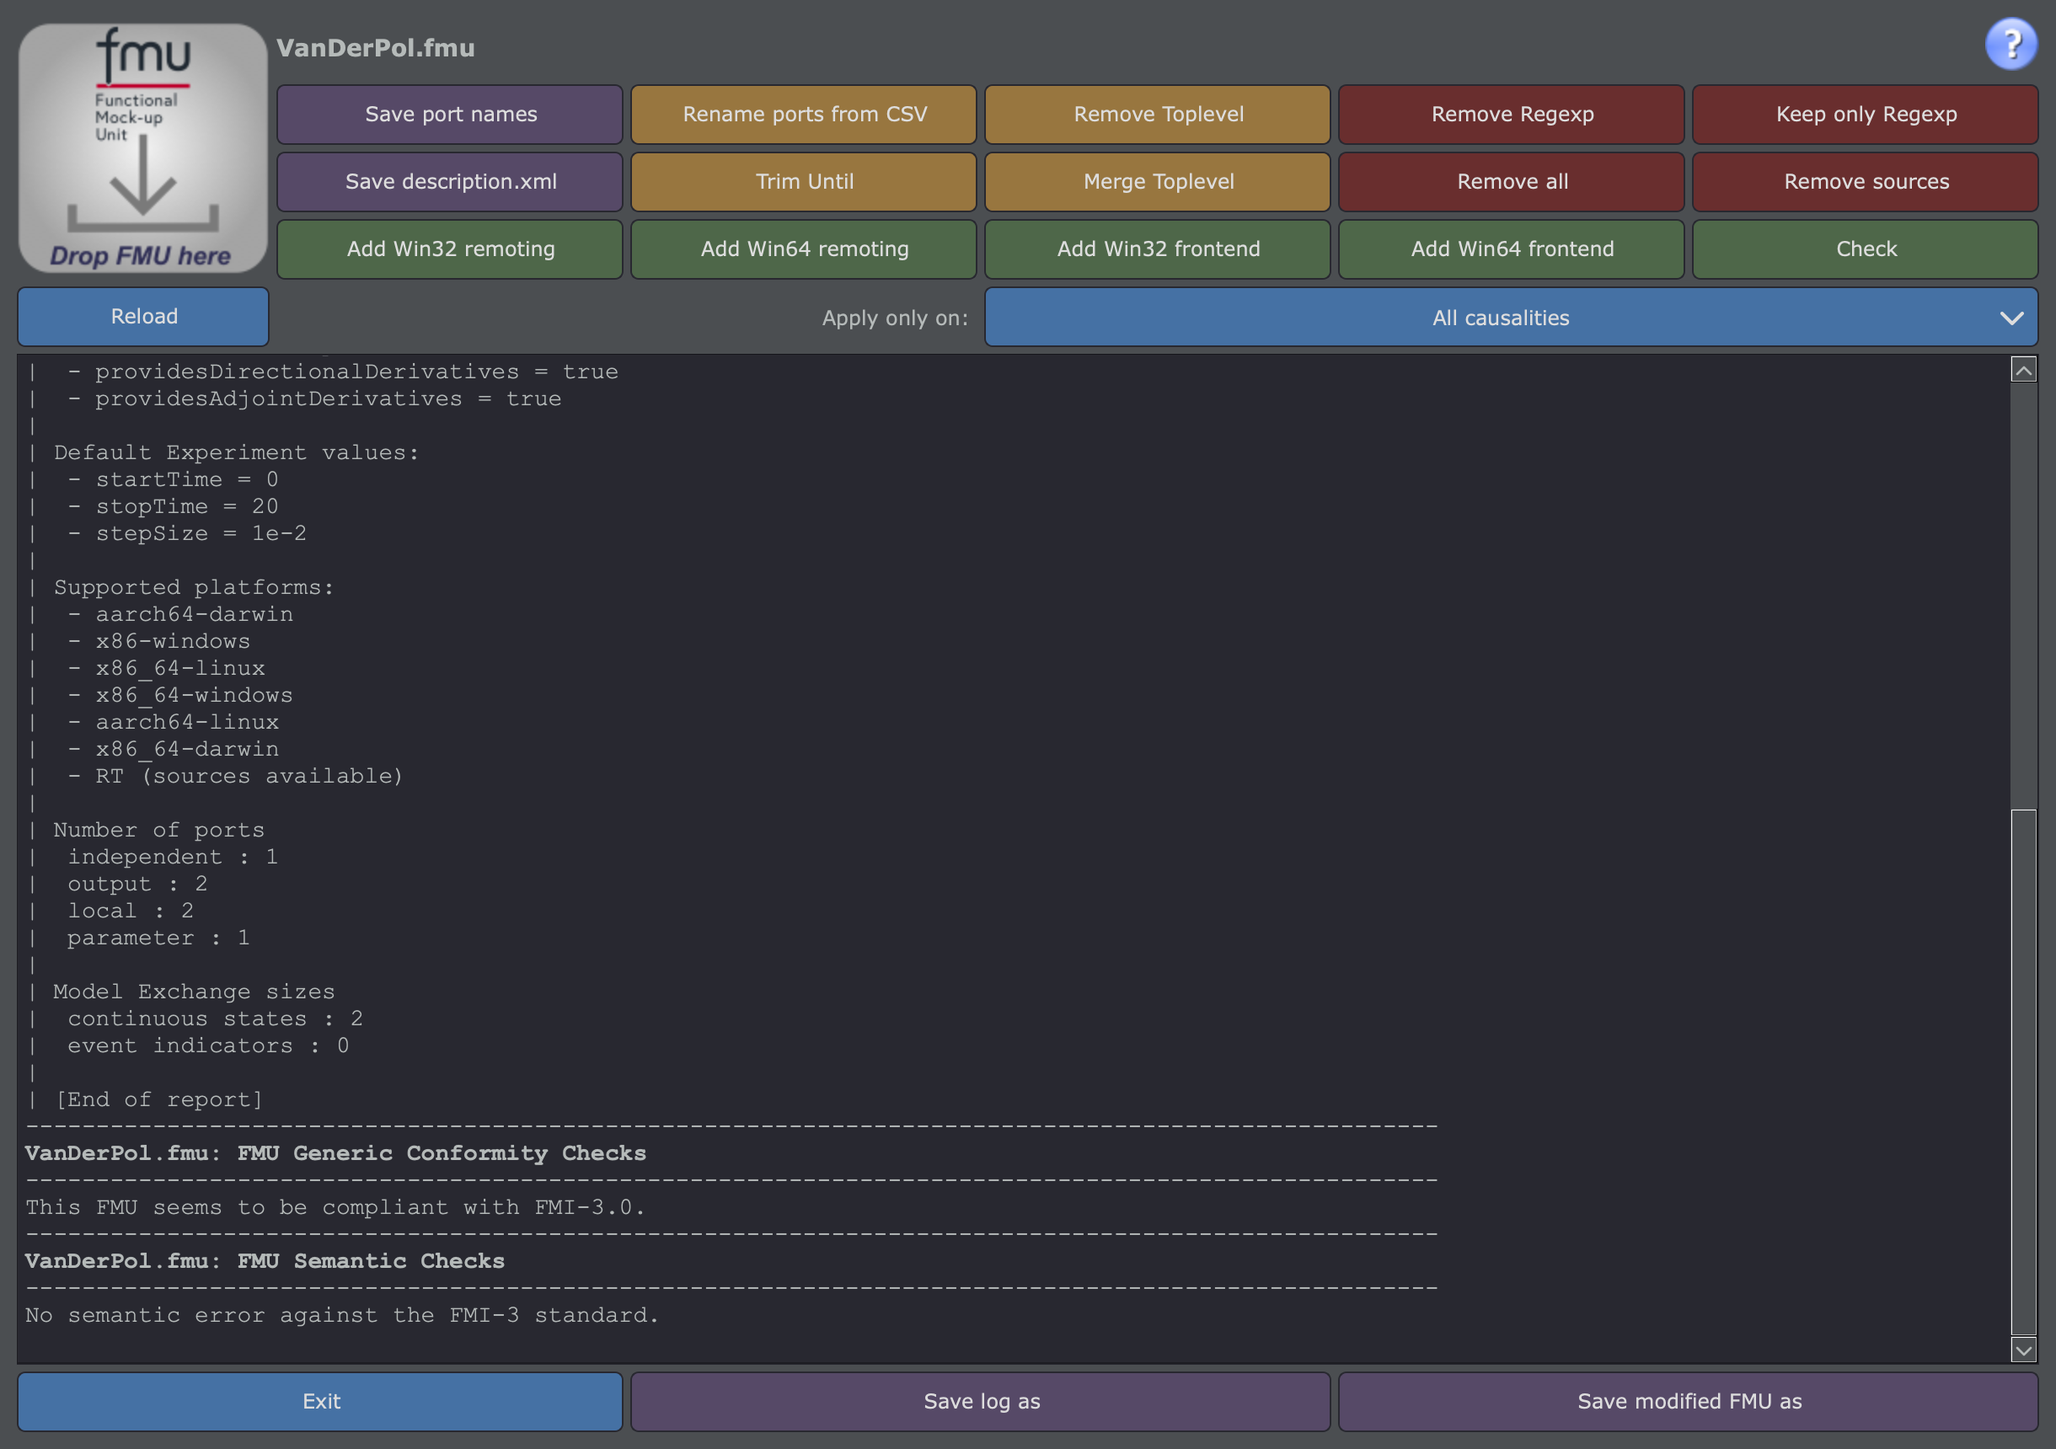
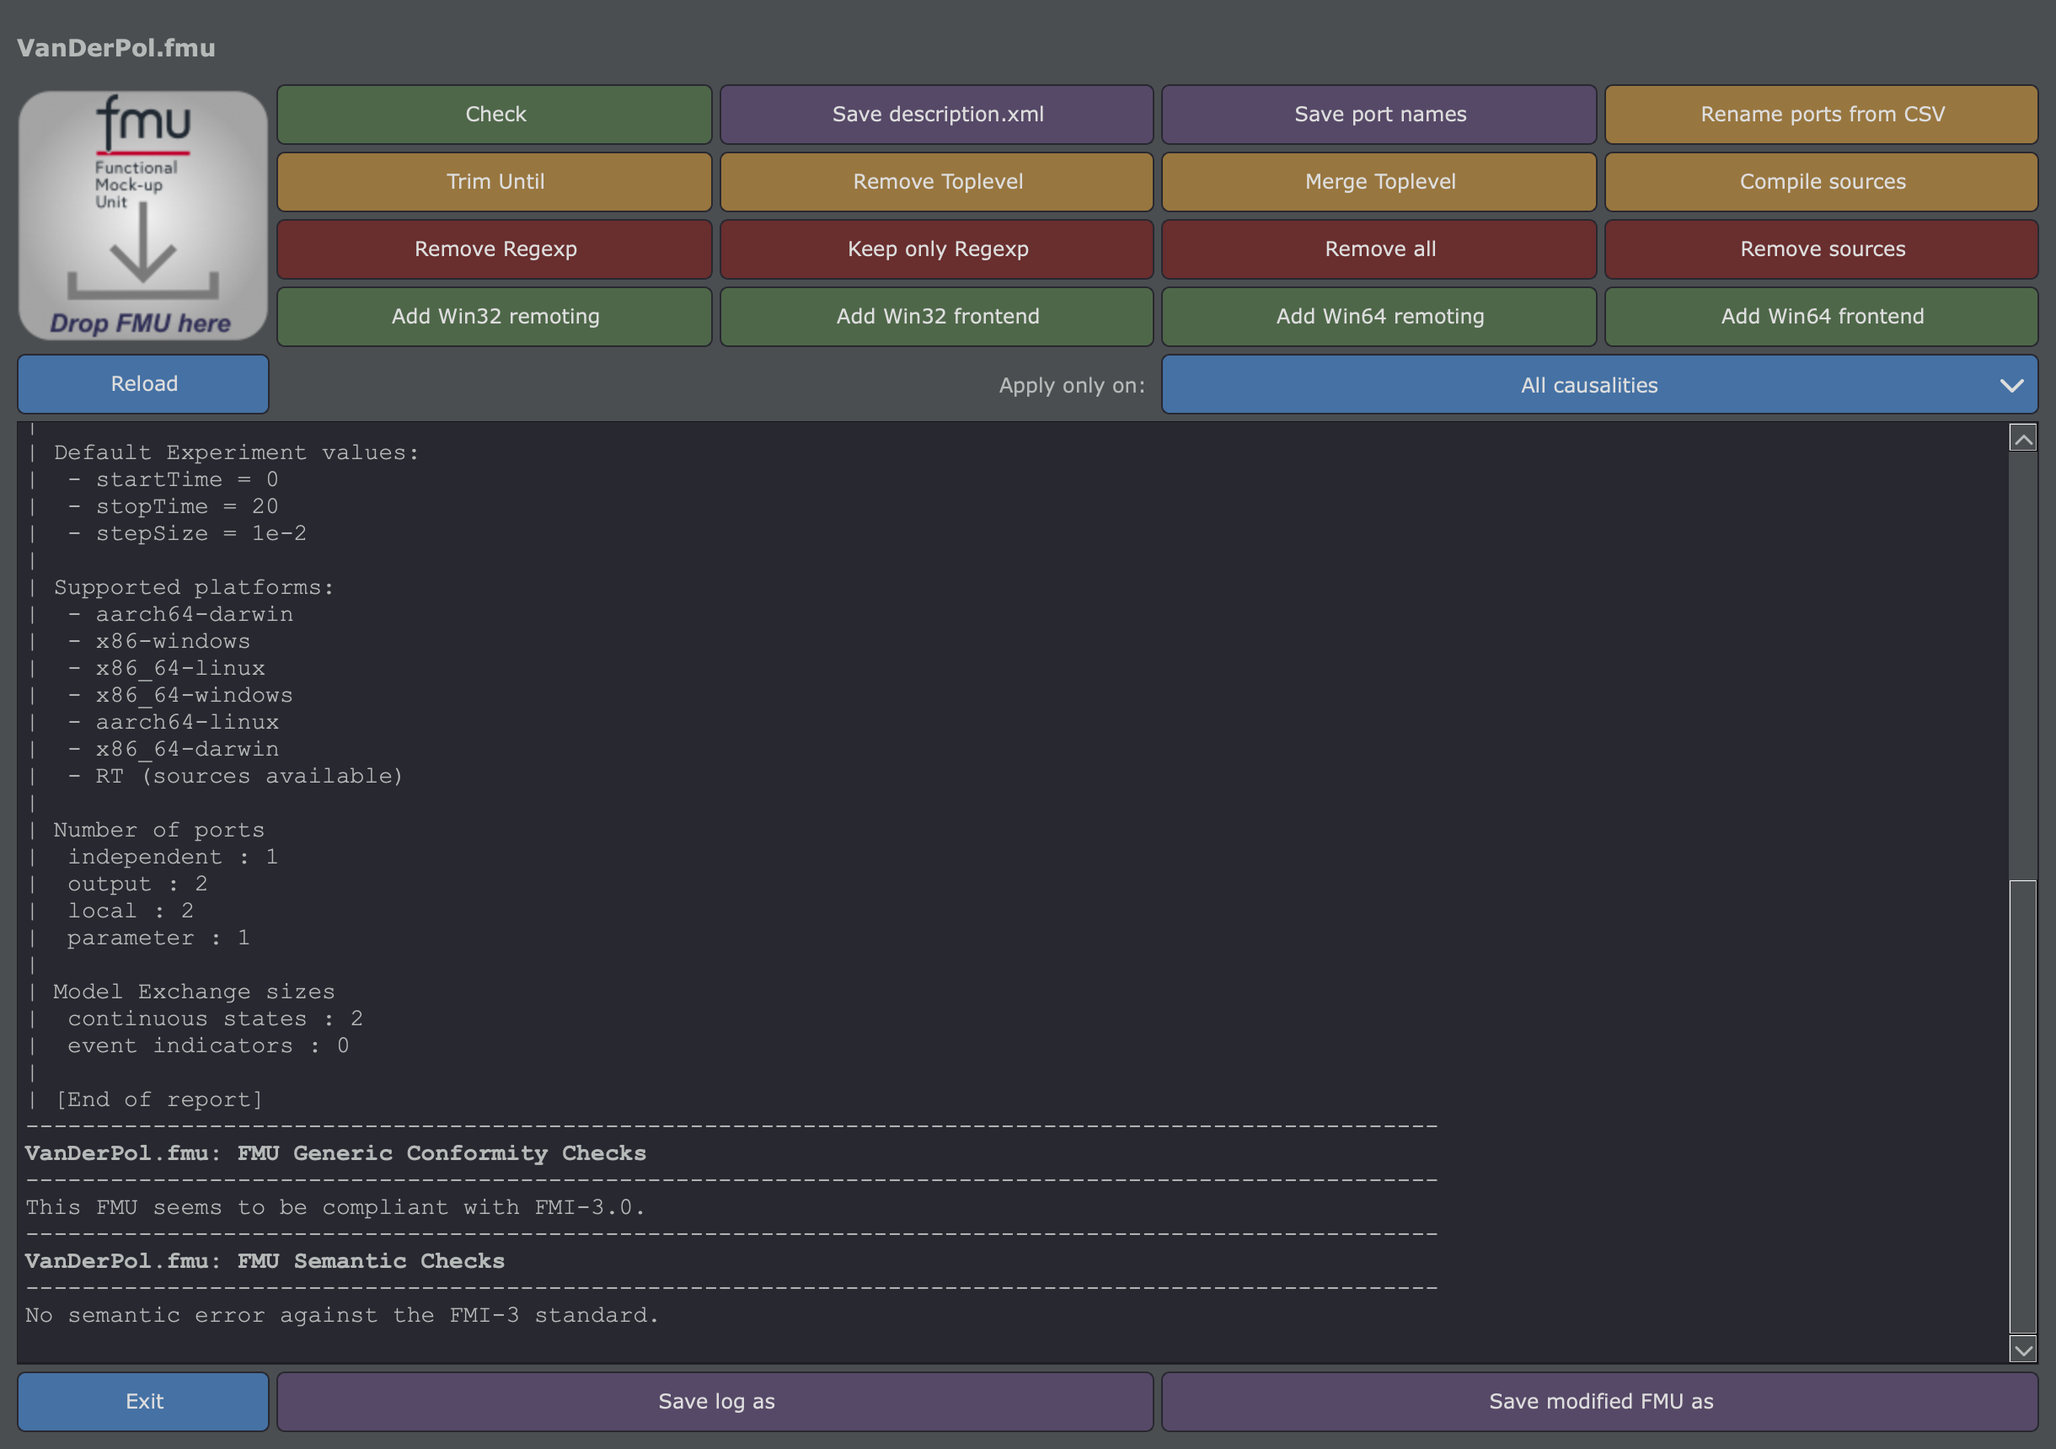
Document the compilation of FMU sources

diff --git a/tools/screenshots.py b/tools/screenshots.py
@@ -201,6 +201,30 @@ def fmutool_check():
     return window.grab()
 
 
+@shot("fmutool-compile", "user-guide/fmutool/fmutool-compile.png")
+def fmutool_compile():
+    """`Compile sources` on the FMI 3.0 Reference FMU `BouncingBall` copied without its binaries."""
+    import zipfile
+    from fmu_manipulation_toolbox.gui.fmutool.__main__ import MainWindow
+    source = DATA / "compile" / "3.0" / "BouncingBall.fmu"
+    target = WORK / "BouncingBall.fmu"
+    target.parent.mkdir(parents=True, exist_ok=True)
+    with zipfile.ZipFile(source) as zin, zipfile.ZipFile(target, "w", zipfile.ZIP_DEFLATED) as zout:
+        for item in zin.infolist():
+            if not item.filename.startswith("binaries/"):
+                zout.writestr(item, zin.read(item.filename))
+    window = offscreen(MainWindow, size=(1030, 860))
+    window.load(str(target))
+    settle()
+    compile_button = next(button for button in window.findChildren(QPushButton)
+                          if button.text() == "Compile sources")
+    compile_button.click()
+    settle()
+    window.log_widget.verticalScrollBar().setValue(window.log_widget.verticalScrollBar().maximum())
+    settle()
+    return window.grab()
+
+
 def fmueditor_window():
     from fmu_manipulation_toolbox.gui.fmueditor.__main__ import MainWindow
     work = copy_data("containers/VanDerPol/VanDerPol.fmu")

diff --git a/docs/local/done/compile_sources.md b/docs/local/done/compile_sources.md
@@ -1,6 +1,6 @@
 # Plan: compile the sources of an FMU for the host platform
 
-**Created**: 13 October 2026 — **Status**: test suite ready, steps 0 to 3 done — **Roadmap**: not listed
+**Created**: 13 October 2026 — **Status**: done (13 October 2026); MSVC path to be checked on Windows — **Roadmap**: not listed
 
 Some FMUs embed their C sources (`sources/`) but no binary for the platform of the user (for example
 `tests/data/remoting/bouncing_ball-win32.fmu`: FMI 2.0, `win32` binary only). The goal is a Python class that
@@ -75,6 +75,12 @@ Taken on 13 October 2026:
   otherwise ignored with a warning (also when `compiler` is absent).
 - **D14 — `<Library>`**: linked by name (`-l<name>`, `<name>.lib` with MSVC); `version` and `external` ignored.
 - **D15 — MSVC runtime**: static (`/MT`), so that the DLL does not need the Visual C++ redistributable.
+- **D16 — Logs of the compilation** (taken on 13 October 2026, homogeneity with the other operations): one short
+  `INFO` line per step (`Compiling 'sources/model.c'.`, `Linking 'BouncingBall.dylib'.`), the full command line in
+  `DEBUG`. The compiler output of a step is kept and logged once the step ends: as `WARNING` if it succeeds, as
+  `ERROR` if it fails, nothing if it is silent; the temporary paths are shortened (`sources/model.c`) and the
+  banner lines of MSVC (name of the source, `Creating library …`) are dropped. This replaces the line-by-line
+  streaming of D9 (the progress is given by the `INFO` steps).
 
 ---
 
@@ -186,22 +192,47 @@ Commit message: `Compile the embedded sources of an FMU for the host platform`
 
 Commit message: `Add OperationCompileSources`
 
-### Step 4 — GUI button and CLI option
+### Step 4 — GUI button and CLI option — done
 
 - `gui/fmutool/__main__.py`: `("Compile sources", '-compile-sources', 'modify', OperationCompileSources)` right
   after `Remove sources` (D8, D9).
 - `help.py`: usage of `-compile-sources`; `cli/fmutool.py`: `-compile-sources` (`append_const`) (D4).
 - The whole test suite is green, `test_cli_compile_sources` included.
+- Done on 13 October 2026: 1840 passed; `tests/gui/test_gui.py` expects 16 buttons. D8 revised by the user: the
+  grid is 4 x 4 (`WIDTH = 4`), order chosen by the user:
+  `Check, Save description.xml, Save port names, Rename ports from CSV` /
+  `Trim Until, Remove Toplevel, Merge Toplevel, Compile sources` /
+  `Remove Regexp, Keep only Regexp, Remove all, Remove sources` /
+  `Add Win32 remoting, Add Win32 frontend, Add Win64 remoting, Add Win64 frontend`
+  (colours in blocks, `Compile sources` above `Remove sources`).
+  The `?` help button of FMU Tool is removed (duplicate of the launcher); the drop zone is aligned with the 4 lines
+  of buttons and the title spans the whole width. Help text says "available from version 2.0" (roadmap).
 
 Commit message: `Add a "Compile sources" button to FMU Tool and a -compile-sources option`
 
-### Step 5 — User documentation
+### Step 5 — User documentation — done
 
-- `docs/user-guide/fmutool/gui-usage.md` (button table, colour), `python-api.md` (`SourceCompiler`,
+- `docs/user-guide/fmutool/gui-usage.md` (button table, colour, new 4 x 4 grid; screenshot `fmutool-gui.png` to
+  regenerate with `tools/screenshots.py`), `python-api.md` (`SourceCompiler`,
   `OperationCompileSources`), `cli-usage.md` (`-compile-sources`), limits (D3 architecture, D7), prerequisites (C compiler per OS) in `installation.md`.
 - `CHANGELOG.md`.
 
+- Done on 13 October 2026: `gui-usage.md` (grid, colour table, *Compile Sources* section, no more help icon),
+  `cli-usage.md` (*Compile Sources*: example, prerequisites per OS, what is compiled, errors and exit code 5,
+  limits), `python-api.md` (*Compile the Sources*), `installation.md` (optional dependencies), new API page
+  `API/compiler.md` (in `mkdocs.yml`), `CHANGELOG.md` (fmutool and GUI sections). Screenshots `fmutool-gui.png`,
+  `fmutool-filter.png`, `fmutool-check.png` regenerated, `fmutool-compile.png` added (new shot in
+  `tools/screenshots.py`). `mkdocs build --strict` passes.
+
 Commit message: `Document the compilation of FMU sources`
+
+---
+
+## 7. Open point
+
+The MSVC path (`Toolchain._find_msvc()`, `cl` command lines, filtering of the MSVC banner lines of D16) is covered
+by unit tests on the command lines only: it was never run. To be checked on Windows (or by the CI on
+`windows-latest`, where `needs_compiler` tests run when Visual Studio is installed).
 
 ---
 

diff --git a/docs/user-guide/fmutool/gui-usage.md b/docs/user-guide/fmutool/gui-usage.md
@@ -21,11 +21,19 @@ The window is organized as a single grid:
 
 ### 1. Drop Zone / Loading Area (top-left)
 - **Drop zone**: click it, or drag & drop a `.fmu` file onto it, to load an FMU.
-- The loaded FMU name is shown next to it, together with the online **help** icon (opens the
-  documentation website).
+- The loaded FMU name is shown above the drop zone and the buttons.
 
 ### 2. Operation Buttons (grid, upper area)
-- One color-coded button per available operation (see [Button Color Code](#button-color-code)).
+- One color-coded button per available operation (see [Button Color Code](#button-color-code)), in a
+  grid of 4 × 4 buttons next to the drop zone, one line per kind of operation:
+
+| | | | |
+|---|---|---|---|
+| Check | Save description.xml | Save port names | Rename ports from CSV |
+| Trim Until | Remove Toplevel | Merge Toplevel | Compile sources |
+| Remove Regexp | Keep only Regexp | Remove all | Remove sources |
+| Add Win32 remoting | Add Win32 frontend | Add Win64 remoting | Add Win64 frontend |
+
 - Clicking a button immediately applies the corresponding operation to the loaded FMU (some
   buttons prompt for a value or a file first).
 
@@ -54,7 +62,7 @@ The interface uses an intuitive color code (matching the operation's effect):
 | Color | Action Type | Examples |
 |-------|-------------|----------|
 | 🔴 **Red** | Remove information | Remove Regexp, Keep only Regexp, Remove all, Remove sources |
-| 🟠 **Orange** | Modify `modelDescription.xml` | Rename ports from CSV, Remove Toplevel, Merge Toplevel, Trim Until |
+| 🟠 **Orange** | Modify the FMU | Rename ports from CSV, Remove Toplevel, Merge Toplevel, Trim Until, Compile sources |
 | 🟢 **Green** | Add components or check | Add Win32/Win64 remoting, Add Win32/Win64 frontend, Check |
 | 🟣 **Purple** | Extract and save | Save port names, Save description.xml, Save log as, Save modified FMU as |
 | 🔵 **Blue** | Filter scope or exit | Apply only on, Reload, Exit |
@@ -130,6 +138,21 @@ Controller.Gain
 1. Open **Apply only on:** and uncheck every causality except the one(s) you want to target
    (e.g. keep only `parameter` checked)
 2. Click **Remove all** (removes every remaining port matching the filter)
+
+#### 🟠 Compile Sources
+
+**Use Case:** The FMU embeds its C sources (`sources/` folder) but has no binary for your platform (e.g. a
+Windows-only FMU used on Linux or macOS)
+
+1. Click **Compile sources**
+2. Read the progress in the log area
+
+**Result:** The sources are compiled for the current platform and the binary is added to
+`binaries/<platform>/` of the in-memory FMU — remember to use **Save modified FMU as** afterwards. If the binary
+already exists, nothing is compiled. A C compiler is required, see
+[Compiling the Sources of an FMU](cli-usage.md#compile-sources) for the prerequisites and the limits.
+
+![Compile sources in the log area](fmutool-compile.png)
 
 #### 🟢 Add Binary Interface (Windows FMUs)
 

diff --git a/docs/user-guide/fmutool/cli-usage.md b/docs/user-guide/fmutool/cli-usage.md
@@ -261,6 +261,52 @@ fmutool -input module.fmu -remove-sources -output module-no-src.fmu
 
 **Effect:** The `sources/` folder is removed from the FMU.
 
+### Compile Sources
+
+```bash
+fmutool -input module.fmu -compile-sources -output module-compiled.fmu
+```
+
+**Effect:** When the FMU embeds its C (or C++) sources but no binary for the current platform, the sources are
+compiled and the shared library is added to `binaries/<platform>/` (e.g. `binaries/linux64/` for FMI 2.0,
+`binaries/x86_64-linux/` for FMI 3.0). If the binary already exists, nothing is compiled. The sources are kept, and
+`modelDescription.xml` is not changed.
+
+```
+INFO     | Compiling 'BouncingBall' for x86_64-linux with gcc.
+INFO     | Compiling 'sources/fmi3Functions.c'.
+INFO     | Compiling 'sources/model.c'.
+INFO     | Compiling 'sources/cosimulation.c'.
+INFO     | Linking 'BouncingBall.so'.
+INFO     | Binary 'binaries/x86_64-linux/BouncingBall.so' is built.
+```
+
+**Prerequisite:** a C compiler for the current platform:
+
+| Platform | Compiler |
+|----------|----------|
+| Windows | Visual Studio, or its *Build Tools*, with the *Desktop development with C++* workload: found automatically. Otherwise, `cl.exe` from the `PATH` (Developer Command Prompt). |
+| Linux | `cc` (e.g. `sudo apt-get install build-essential`), or the compiler given by the `CC` environment variable (`CXX` for C++). |
+| macOS | `cc` of the Xcode Command Line Tools (`xcode-select --install`), or `CC` / `CXX`. |
+
+**What is compiled:** the files listed by the FMU: `<SourceFiles>` of `modelDescription.xml` (FMI 2.0), or
+`sources/buildDescription.xml` (FMI 3.0) with its preprocessor definitions, include directories and libraries.
+The FMI headers are provided by FMU Manipulation Toolbox. The shared library is built for the current platform
+only (no cross-compilation), with optimizations (`-O2` / `/O2`) and, on Windows, the static C runtime (`/MT`).
+
+**Errors** (exit code `5`, no output FMU): no `sources/` folder, no list of the sources to compile, no compiler
+found, or compilation failure. The compiler messages are shown as errors (as warnings when the compilation
+succeeds).
+
+**Limits:**
+
+- The presence of the binary is checked, not its architecture: an FMU with an Intel-only `darwin64` binary is not
+  recompiled on a Mac with Apple Silicon. Remove the binary first (e.g. with a zip tool) to force the compilation.
+- An FMU without list of its sources is not compiled: the sources to use (and the preprocessor definitions they
+  need) cannot be guessed.
+- `compilerOptions` of `buildDescription.xml` are only used when they are written for the compiler in use (`gcc`,
+  `clang` or `cl`).
+
 ### Extract Model Descriptor
 
 ```bash

diff --git a/CHANGELOG.md b/CHANGELOG.md
@@ -134,6 +134,12 @@ API, 🟠 **FIXED** bug fix; 🔴 **BREAKING** marks what may require changes in
 
 ## fmutool and the Python API
 
+- 🟢 **ADDED** compilation of the sources embedded in an FMU when the binary of the current platform is missing:
+  `fmutool -compile-sources`, the **Compile sources** button of `fmutool-gui`, and `OperationCompileSources` /
+  `SourceCompiler` (`fmu_manipulation_toolbox.compiler`) in the Python API. FMI 2.0 (`<SourceFiles>`) and FMI 3.0
+  (`sources/buildDescription.xml`), C and C++, with the C compiler of the platform (Visual Studio on Windows, `cc`
+  or `CC` elsewhere). The FMI headers are now part of the package (`resources/fmi/`). See
+  [Compile Sources](docs/user-guide/fmutool/cli-usage.md#compile-sources).
 - 🔵 **CHANGED** operations modify `modelDescription.xml` in place with ElementTree instead of
   re-generating it, so that everything an operation does not touch is kept as is. Fixes text and
   attribute values written unescaped or unescaped twice (which produced invalid XML, and made the
@@ -196,6 +202,9 @@ API, 🟠 **FIXED** bug fix; 🔴 **BREAKING** marks what may require changes in
 
 ## Graphical User Interfaces
 
+- 🔵 **CHANGED** `fmutool-gui`: the operation buttons are laid out in a 4 × 4 grid, one line per kind of
+  operation, with the new **Compile sources** button above **Remove sources**; the **?** help icon is removed (the
+  documentation is reachable from `fmutoolbox`).
 - 🟢 **ADDED** `fmucontainer-gui` and `fmueditor`: the status bar shows the last log message (Info level and above)
   in the colour of its level; a click opens a log window with every message since the launch, a level filter, a
   search, **Save Logs…** and **Clear**. In `fmucontainer-gui`, the messages that were lost outside the progress

diff --git a/docs/user-guide/fmutool/python-api.md b/docs/user-guide/fmutool/python-api.md
@@ -244,6 +244,42 @@ fmu.apply_operation(operation)
 fmu.repack("module-no-src.fmu")
 ```
 
+## Compile the Sources
+
+`OperationCompileSources` compiles the sources embedded in an FMU when the binary of the current platform is
+missing (see [Compile Sources](cli-usage.md#compile-sources) for the prerequisites and the limits). It raises
+`OperationError` if the binary cannot be built.
+
+```python
+from fmu_manipulation_toolbox.operations import FMU, OperationError
+from fmu_manipulation_toolbox.compiler import OperationCompileSources
+
+with FMU("module.fmu") as fmu:
+    try:
+        fmu.apply_operation(OperationCompileSources())
+    except OperationError as error:
+        print(f"Cannot compile: {error}")
+    else:
+        fmu.repack("module-compiled.fmu")
+```
+
+`SourceCompiler` gives access to the steps, e.g. to know what would be built without compiling:
+
+```python
+from fmu_manipulation_toolbox.operations import FMU
+from fmu_manipulation_toolbox.compiler import SourceCompiler, Toolchain
+
+with FMU("module.fmu") as fmu:
+    md = fmu.model_description
+    compiler = SourceCompiler(fmu.tmp_directory, md.fmi_version)
+    print(SourceCompiler.host_platform(md.fmi_version))         # e.g. 'x86_64-linux'
+    for configuration in compiler.build_configurations(md):
+        print(configuration.model_identifier, compiler.binary_path(configuration.model_identifier))
+        for source in configuration.source_files:
+            print("   ", source.name)
+    print(Toolchain.find().family)                               # 'gcc', 'clang' or 'msvc'
+```
+
 ## Remoting Operations
 
 ```python

diff --git a/docs/installation.md b/docs/installation.md
@@ -23,6 +23,17 @@ This guide walks you through installing **FMU Manipulation Toolbox** on your sys
   - macOS: Xcode Command Line Tools (with recent Clang)
 - **CMake 3.21 or higher**
 
+### Optional Dependencies (to compile the sources of an FMU)
+
+The **Compile sources** operation (`fmutool -compile-sources`) needs a C compiler for the current platform
+(CMake is not needed):
+
+- Windows: Visual Studio or its *Build Tools*, with the *Desktop development with C++* workload
+- Linux: `cc` (e.g. `sudo apt-get install build-essential`), or the compiler given by `CC` / `CXX`
+- macOS: Xcode Command Line Tools (`xcode-select --install`)
+
+See [Compile Sources](user-guide/fmutool/cli-usage.md#compile-sources).
+
 ## Method 1: Installation via PyPI (Recommended)
 
 This is the simplest and fastest method to install FMU Manipulation Toolbox.

diff --git a/docs/API/compiler.md b/docs/API/compiler.md
@@ -1,0 +1,1 @@
+::: fmu_manipulation_toolbox.compiler
